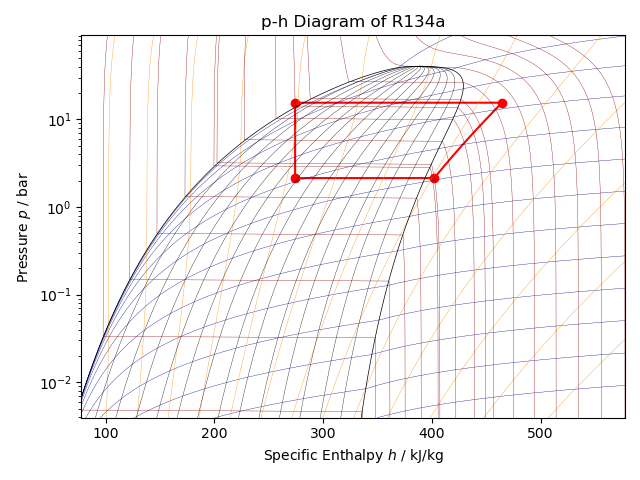
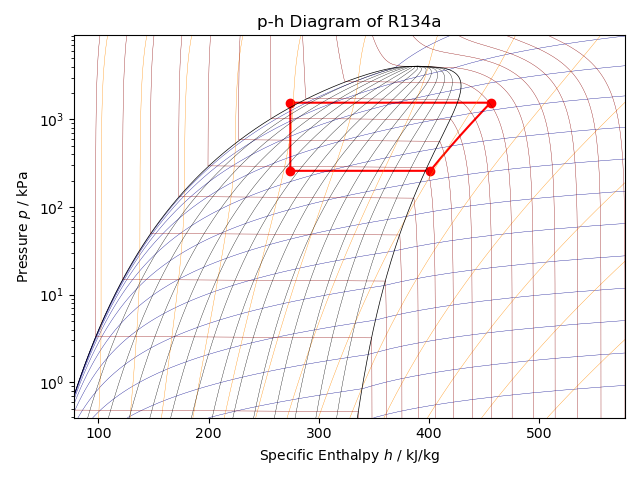
Added posibility to customize iso lines

diff --git a/main.py b/main.py
@@ -12,7 +12,7 @@ refrigerant = 'R134a'
 
 '''Suction Conditions'''
 t_sat_evap = 1.7 #degC
-superheat = 10 #degC
+superheat = 5 #degC
 
 '''Discharge Conditions'''
 t_sat_cond = 51.7 #degC
@@ -100,8 +100,14 @@ h_points = np.array([h1, h2a, h3, h4, h1])
 p_points = np.array([p_suc, p_dis, p_dis, p_suc, p_suc])
 
 
-pp = PropertyPlot(f"HEOS::{refrigerant}", 'PH', unit_system='EUR')
+#pp = PropertyPlot(f"HEOS::{refrigerant}", 'PH', unit_system='EUR')
+pp = PropertyPlot(refrigerant, 'ph')
+
 pp.calc_isolines()
+#pp.calc_isolines(CoolProp.iQ, num=10)
+#pp.calc_isolines(CoolProp.iT, num=10)
+#pp.calc_isolines(CoolProp.iSmass, num=10)
+
 cycle = SimpleCompressionCycle(f"HEOS::{refrigerant}", 'PH', unit_system='EUR')
 T0 = 273.15+t_sat_evap
 pp.state.update(CoolProp.QT_INPUTS,0.0,T0-superheat)
